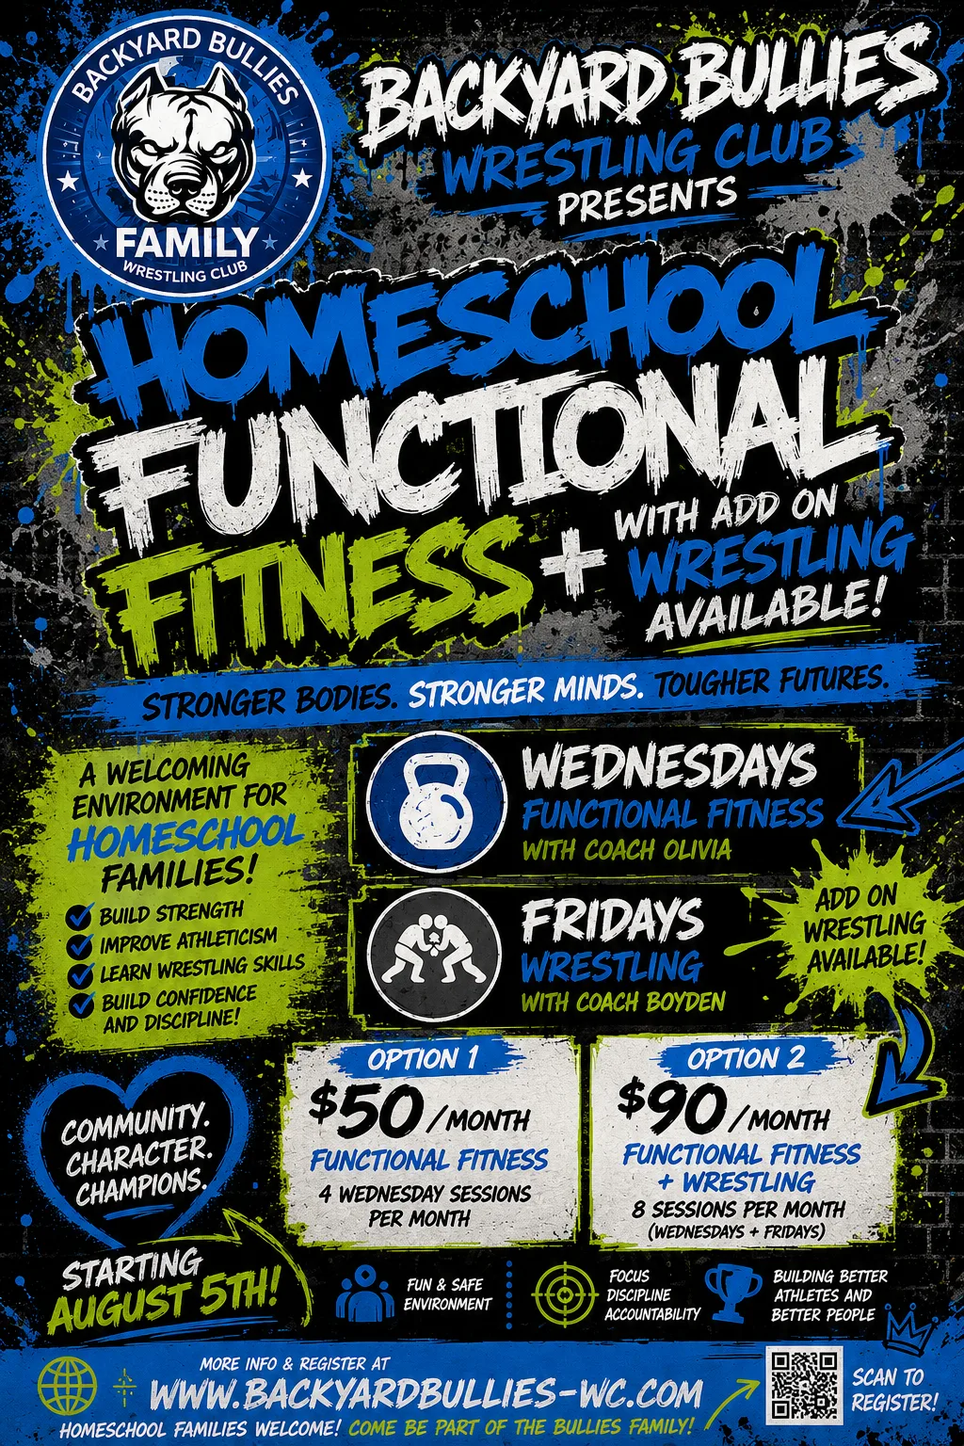
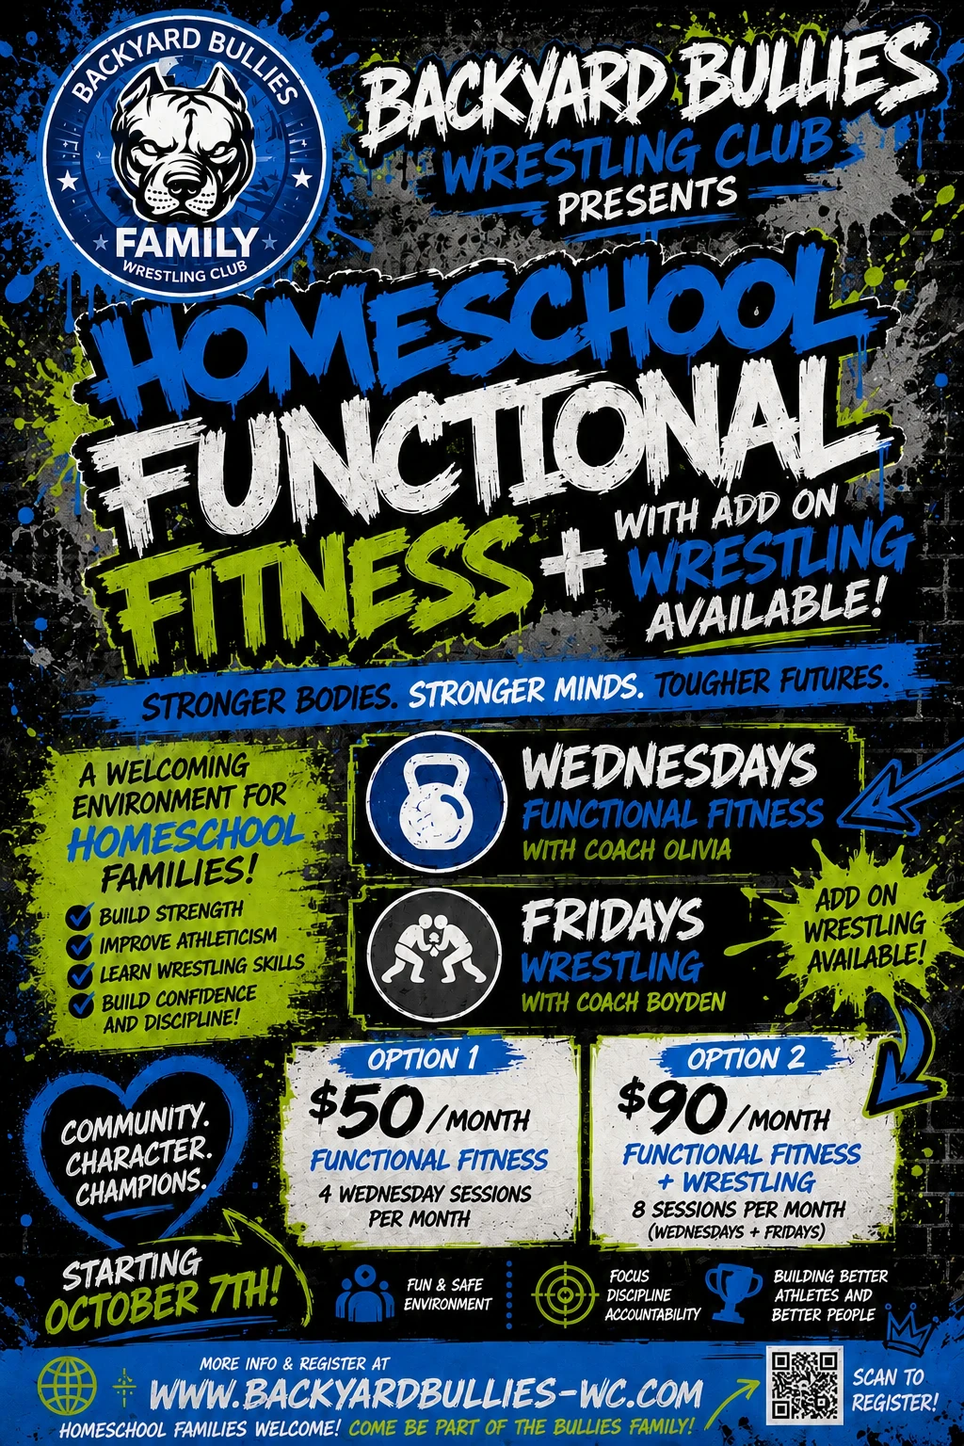
Refresh upcoming events

diff --git a/index.html b/index.html
@@ -214,62 +214,30 @@
   [
     {
       "@context": "https://schema.org",
-      "@type": "Event",
-      "name": "The Athletic Standard Sports Massage",
-      "description": "The Athletic Standard is offering reservation-only 20-minute sports massage sessions for $20. Limited time slots are available.",
-      "startDate": "2026-10-01T18:00:00-04:00",
-      "endDate": "2026-10-01T20:30:00-04:00",
-      "eventStatus": "https://schema.org/EventScheduled",
-      "image": "https://www.backyardbullies-wc.com/images/camps/athletic-standard-sports-massage.webp",
-      "url": "https://www.backyardbullies-wc.com/massage",
-      "offers": {
-        "@type": "Offer",
-        "url": "https://www.backyardbullies-wc.com/massage",
-        "price": 20,
-        "priceCurrency": "USD",
-        "availability": "https://schema.org/LimitedAvailability"
-      },
-      "organizer": {
-        "@type": "Organization",
-        "name": "The Athletic Standard",
-        "url": "https://theathleticstandard.com/"
-      }
-    },
-    {
-      "@context": "https://schema.org",
-      "@type": "Event",
-      "name": "Wrestling Clinic — All Ages, All Skill Levels",
-      "description": "A four-hour wrestling clinic for athletes of all ages and skill levels focused on technique, conditioning, mindset, and results at Backyard Bullies Wrestling Club in Augusta, GA.",
-      "startDate": "2026-10-03T08:00:00-04:00",
-      "endDate": "2026-10-03T12:00:00-04:00",
-      "eventAttendanceMode": "https://schema.org/OfflineEventAttendanceMode",
-      "eventStatus": "https://schema.org/EventScheduled",
-      "image": "https://www.backyardbullies-wc.com/images/camps/wrestling-clinic-october-2026.webp",
-      "url": "https://docs.google.com/forms/d/e/1FAIpQLSdaU0U6rkw-us_9woNuy4mtevYRp8IIStvXhummQ82HSzfSyg/viewform",
-      "offers": {
-        "@type": "Offer",
-        "url": "https://docs.google.com/forms/d/e/1FAIpQLSdaU0U6rkw-us_9woNuy4mtevYRp8IIStvXhummQ82HSzfSyg/viewform",
-        "price": 50,
-        "priceCurrency": "USD",
-        "availability": "https://schema.org/InStock"
-      },
-      "location": {
-        "@type": "Place",
-        "name": "Backyard Bullies Wrestling Club",
-        "address": {
-          "@type": "PostalAddress",
-          "streetAddress": "266 Bobby Jones Expressway, Unit 19",
-          "addressLocality": "Augusta",
-          "addressRegion": "GA",
-          "postalCode": "30907",
-          "addressCountry": "US"
-        }
-      },
-      "organizer": {
-        "@type": "Organization",
+      "@type": "Course",
+      "name": "Homeschool Functional Fitness + Wrestling",
+      "description": "Weekly functional fitness with optional wrestling for homeschool athletes in a positive, encouraging environment.",
+      "url": "https://www.backyardbullies-wc.com/homeschool-functional-fitness/",
+      "image": "https://www.backyardbullies-wc.com/images/camps/homeschool-functional-fitness.webp",
+      "provider": {
+        "@type": "SportsActivityLocation",
         "name": "Backyard Bullies Wrestling Club",
         "url": "https://www.backyardbullies-wc.com/"
-      }
+      },
+      "hasCourseInstance": {
+        "@type": "CourseInstance",
+        "courseMode": "onsite",
+        "startDate": "2026-10-07",
+        "location": {
+          "@type": "Place",
+          "name": "Backyard Bullies Wrestling Club",
+          "address": "266 Bobby Jones Expressway (Rear Entrance), Augusta, GA 30907"
+        }
+      },
+      "offers": [
+        {"@type": "Offer", "name": "Functional Fitness", "price": 50, "priceCurrency": "USD", "category": "monthly"},
+        {"@type": "Offer", "name": "Functional Fitness + Wrestling", "price": 90, "priceCurrency": "USD", "category": "monthly"}
+      ]
     },
     {
       "@context": "https://schema.org",
@@ -338,30 +306,26 @@
     },
     {
       "@context": "https://schema.org",
-      "@type": "Course",
-      "name": "Homeschool Functional Fitness + Wrestling",
-      "description": "Weekly functional fitness with optional wrestling for homeschool athletes in a positive, encouraging environment.",
-      "url": "https://www.backyardbullies-wc.com/homeschool-functional-fitness/",
-      "image": "https://www.backyardbullies-wc.com/images/camps/homeschool-functional-fitness.webp",
-      "provider": {
-        "@type": "SportsActivityLocation",
-        "name": "Backyard Bullies Wrestling Club",
-        "url": "https://www.backyardbullies-wc.com/"
+      "@type": "Event",
+      "name": "The Athletic Standard Sports Massage",
+      "description": "The Athletic Standard is offering reservation-only 20-minute sports massage sessions for $20. Limited time slots are available.",
+      "startDate": "2026-11-05T18:00:00-05:00",
+      "endDate": "2026-11-05T20:30:00-05:00",
+      "eventStatus": "https://schema.org/EventScheduled",
+      "image": "https://www.backyardbullies-wc.com/images/camps/athletic-standard-sports-massage.webp",
+      "url": "https://www.backyardbullies-wc.com/massage",
+      "offers": {
+        "@type": "Offer",
+        "url": "https://www.backyardbullies-wc.com/massage",
+        "price": 20,
+        "priceCurrency": "USD",
+        "availability": "https://schema.org/LimitedAvailability"
       },
-      "hasCourseInstance": {
-        "@type": "CourseInstance",
-        "courseMode": "onsite",
-        "startDate": "2026-08-05",
-        "location": {
-          "@type": "Place",
-          "name": "Backyard Bullies Wrestling Club",
-          "address": "266 Bobby Jones Expressway (Rear Entrance), Augusta, GA 30907"
-        }
-      },
-      "offers": [
-        {"@type": "Offer", "name": "Functional Fitness", "price": 50, "priceCurrency": "USD", "category": "monthly"},
-        {"@type": "Offer", "name": "Functional Fitness + Wrestling", "price": 90, "priceCurrency": "USD", "category": "monthly"}
-      ]
+      "organizer": {
+        "@type": "Organization",
+        "name": "The Athletic Standard",
+        "url": "https://theathleticstandard.com/"
+      }
     }
   ]
   </script>
@@ -661,50 +625,27 @@
         </div>
 
         <div class="grid md:grid-cols-2 lg:grid-cols-6 gap-6">
-          <!-- The Athletic Standard Sports Massage -->
-          <article class="bg-ink-card border border-ink-line rounded-xl p-6 flex flex-col lg:col-span-2">
+          <!-- Homeschool Functional Fitness + Wrestling -->
+          <article class="bg-ink-card border border-ink-line rounded-xl p-6 flex flex-col lg:col-span-3">
             <div class="min-h-20 mb-3">
-              <h3 class="font-head font-700 uppercase text-xl text-brand mb-1">The Athletic Standard Sports Massage</h3>
-              <p class="text-xs uppercase tracking-wide text-slate-400">Thursday, October 1, 2026 • 6:00–8:30 PM</p>
+              <h3 class="font-head font-700 uppercase text-xl text-brand mb-1">Homeschool Functional Fitness + Wrestling</h3>
+              <p class="text-xs uppercase tracking-wide text-slate-400">Starts October 7, 2026 • Continues weekly</p>
             </div>
-            <a href="images/camps/athletic-standard-sports-massage.webp" target="_blank" rel="noopener noreferrer" class="mb-5 h-80 w-60 self-center overflow-hidden rounded-lg bg-ink ring-1 ring-ink-line focus-visible:outline focus-visible:outline-2 focus-visible:outline-offset-4 focus-visible:outline-brand">
-              <img src="images/camps/athletic-standard-sports-massage.webp" alt="The Athletic Standard Sports Massage flyer for the first Thursday of every month" width="1003" height="1568" loading="lazy" class="h-full w-full object-fill" />
-              <span class="sr-only">View the full Athletic Standard Sports Massage flyer (opens in new window)</span>
+            <a href="images/camps/homeschool-functional-fitness.webp" target="_blank" rel="noopener noreferrer" class="mb-5 h-80 w-60 self-center overflow-hidden rounded-lg bg-ink ring-1 ring-ink-line focus-visible:outline focus-visible:outline-2 focus-visible:outline-offset-4 focus-visible:outline-brand">
+              <img src="images/camps/homeschool-functional-fitness.webp" alt="Homeschool Functional Fitness and Wrestling promotional flyer" width="1024" height="1536" loading="lazy" class="h-full w-full object-fill" />
+              <span class="sr-only">View the full Homeschool Functional Fitness and Wrestling flyer (opens in new window)</span>
             </a>
-            <p class="text-slate-200 text-sm mb-4">Recover, reset, and perform with a focused 20-minute sports massage session offered by The Athletic Standard.</p>
+            <p class="text-slate-200 text-sm mb-4">A welcoming weekly program where homeschool athletes build strength, athleticism, confidence, discipline, and wrestling skills in a fun, safe environment.</p>
             <ul class="list-disc pl-5 space-y-1.5 text-slate-200 text-sm mb-6">
-              <li>$20 per 20-minute session</li>
-              <li>Available from 6:00 to 8:30 PM</li>
-              <li>Limited slots — reservation required</li>
+              <li>Wednesday functional fitness with <a href="#coach-olivia" class="text-brand underline underline-offset-2 hover:text-white">Coach Olivia</a>: $50/month</li>
+              <li>Add Friday wrestling with <a href="#coach-justin" class="text-brand underline underline-offset-2 hover:text-white">Coach Boyden</a>: $90/month total</li>
+              <li>Four or eight sessions per month</li>
             </ul>
-            <a href="https://www.backyardbullies-wc.com/massage" target="_blank" rel="noopener noreferrer" class="mt-auto inline-flex items-center justify-center gap-2 bg-brand text-ink font-head font-700 uppercase text-sm px-5 py-3 rounded-md hover:bg-brand-dark transition-colors">
-              Reserve a Massage Session<span class="sr-only"> (opens in new window)</span>
-            </a>
-          </article>
-
-          <!-- Wrestling Clinic -->
-          <article class="bg-ink-card border border-ink-line rounded-xl p-6 flex flex-col lg:col-span-2">
-            <div class="min-h-20 mb-3">
-              <h3 class="font-head font-700 uppercase text-xl text-brand mb-1">Wrestling Clinic</h3>
-              <p class="text-xs uppercase tracking-wide text-slate-400">Saturday, October 3, 2026 • 8:00 AM–12:00 PM</p>
-            </div>
-            <a href="images/camps/wrestling-clinic-october-2026.webp" target="_blank" rel="noopener noreferrer" class="mb-5 h-80 w-60 self-center overflow-hidden rounded-lg bg-ink ring-1 ring-ink-line focus-visible:outline focus-visible:outline-2 focus-visible:outline-offset-4 focus-visible:outline-brand">
-              <img src="images/camps/wrestling-clinic-october-2026.webp" alt="Wrestling Clinic promotional flyer" width="1024" height="1536" loading="lazy" class="h-full w-full object-fill" />
-              <span class="sr-only">View the full Wrestling Clinic flyer (opens in new window)</span>
-            </a>
-            <p class="text-slate-200 text-sm mb-4">Elevate your game in a four-hour clinic open to wrestlers of every age and skill level.</p>
-            <ul class="list-disc pl-5 space-y-1.5 text-slate-200 text-sm mb-6">
-              <li>Improve technique and build conditioning</li>
-              <li>Develop mental toughness and competitive skills</li>
-              <li>$50 per person</li>
-            </ul>
-            <a href="https://docs.google.com/forms/d/e/1FAIpQLSdaU0U6rkw-us_9woNuy4mtevYRp8IIStvXhummQ82HSzfSyg/viewform" target="_blank" rel="noopener noreferrer" class="mt-auto inline-flex items-center justify-center gap-2 bg-brand text-ink font-head font-700 uppercase text-sm px-5 py-3 rounded-md hover:bg-brand-dark transition-colors">
-              Register for the Wrestling Clinic<span class="sr-only"> (opens in new window)</span>
-            </a>
+            <a href="homeschool-functional-fitness/" class="mt-auto inline-flex items-center justify-center gap-2 bg-brand text-ink font-head font-700 uppercase text-sm px-5 py-3 rounded-md hover:bg-brand-dark transition-colors">View program details &amp; register</a>
           </article>
 
           <!-- SONIC Spirit Night -->
-          <article class="bg-ink-card border border-ink-line rounded-xl p-6 flex flex-col lg:col-span-2">
+          <article class="bg-ink-card border border-ink-line rounded-xl p-6 flex flex-col lg:col-span-3">
             <div class="min-h-20 mb-3">
               <h3 class="font-head font-700 uppercase text-xl text-brand mb-1">SONIC Spirit Night</h3>
               <p class="text-xs uppercase tracking-wide text-slate-400">Thursday, October 15, 2026 • 5:00–9:00 PM</p>
@@ -725,7 +666,7 @@
           </article>
 
           <!-- Trunk or Treat -->
-          <article class="bg-ink-card border border-ink-line rounded-xl p-6 flex flex-col lg:col-span-2 lg:col-start-2">
+          <article class="bg-ink-card border border-ink-line rounded-xl p-6 flex flex-col lg:col-span-3">
             <div class="min-h-20 mb-3">
               <h3 class="font-head font-700 uppercase text-xl text-brand mb-1">Trunk or Treat</h3>
               <p class="text-xs uppercase tracking-wide text-slate-400">Friday, October 23, 2026 • 6:00–7:30 PM</p>
@@ -745,23 +686,25 @@
             </a>
           </article>
 
-          <!-- Homeschool Functional Fitness + Wrestling -->
-          <article class="bg-ink-card border border-ink-line rounded-xl p-6 flex flex-col lg:col-span-2">
+          <!-- The Athletic Standard Sports Massage -->
+          <article class="bg-ink-card border border-ink-line rounded-xl p-6 flex flex-col lg:col-span-3">
             <div class="min-h-20 mb-3">
-              <h3 class="font-head font-700 uppercase text-xl text-brand mb-1">Homeschool Functional Fitness + Wrestling</h3>
-              <p class="text-xs uppercase tracking-wide text-slate-400">Begins August 5, 2026 • Wednesdays + optional Fridays</p>
+              <h3 class="font-head font-700 uppercase text-xl text-brand mb-1">The Athletic Standard Sports Massage</h3>
+              <p class="text-xs uppercase tracking-wide text-slate-400">Thursday, November 5, 2026 • 6:00–8:30 PM</p>
             </div>
-            <a href="images/camps/homeschool-functional-fitness.webp" target="_blank" rel="noopener noreferrer" class="mb-5 h-80 w-60 self-center overflow-hidden rounded-lg bg-ink ring-1 ring-ink-line focus-visible:outline focus-visible:outline-2 focus-visible:outline-offset-4 focus-visible:outline-brand">
-              <img src="images/camps/homeschool-functional-fitness.webp" alt="Homeschool Functional Fitness and Wrestling promotional flyer" width="1024" height="1536" loading="lazy" class="h-full w-full object-fill" />
-              <span class="sr-only">View the full Homeschool Functional Fitness and Wrestling flyer (opens in new window)</span>
+            <a href="images/camps/athletic-standard-sports-massage.webp" target="_blank" rel="noopener noreferrer" class="mb-5 h-80 w-60 self-center overflow-hidden rounded-lg bg-ink ring-1 ring-ink-line focus-visible:outline focus-visible:outline-2 focus-visible:outline-offset-4 focus-visible:outline-brand">
+              <img src="images/camps/athletic-standard-sports-massage.webp" alt="The Athletic Standard Sports Massage flyer for the first Thursday of every month" width="1003" height="1568" loading="lazy" class="h-full w-full object-fill" />
+              <span class="sr-only">View the full Athletic Standard Sports Massage flyer (opens in new window)</span>
             </a>
-            <p class="text-slate-200 text-sm mb-4">A welcoming weekly program where homeschool athletes build strength, athleticism, confidence, discipline, and wrestling skills in a fun, safe environment.</p>
+            <p class="text-slate-200 text-sm mb-4">Recover, reset, and perform with a focused 20-minute sports massage session offered by The Athletic Standard.</p>
             <ul class="list-disc pl-5 space-y-1.5 text-slate-200 text-sm mb-6">
-              <li>Wednesday functional fitness with <a href="#coach-olivia" class="text-brand underline underline-offset-2 hover:text-white">Coach Olivia</a>: $50/month</li>
-              <li>Add Friday wrestling with <a href="#coach-justin" class="text-brand underline underline-offset-2 hover:text-white">Coach Boyden</a>: $90/month total</li>
-              <li>Four or eight sessions per month</li>
+              <li>$20 per 20-minute session</li>
+              <li>Available from 6:00 to 8:30 PM</li>
+              <li>Limited slots — reservation required</li>
             </ul>
-            <a href="homeschool-functional-fitness/" class="mt-auto inline-flex items-center justify-center gap-2 bg-brand text-ink font-head font-700 uppercase text-sm px-5 py-3 rounded-md hover:bg-brand-dark transition-colors">View program details &amp; register</a>
+            <a href="https://www.backyardbullies-wc.com/massage" target="_blank" rel="noopener noreferrer" class="mt-auto inline-flex items-center justify-center gap-2 bg-brand text-ink font-head font-700 uppercase text-sm px-5 py-3 rounded-md hover:bg-brand-dark transition-colors">
+              Reserve a Massage Session<span class="sr-only"> (opens in new window)</span>
+            </a>
           </article>
         </div>
       </div>

diff --git a/homeschool-functional-fitness/index.html b/homeschool-functional-fitness/index.html
@@ -11,7 +11,7 @@
     gtag('config', 'G-JMK1YQ9K6P');
   </script>
   <title>Homeschool Functional Fitness + Wrestling | Backyard Bullies</title>
-  <meta name="description" content="Homeschool functional fitness and optional wrestling in Augusta, GA. Wednesday fitness and Friday wrestling sessions begin August 5, 2026." />
+  <meta name="description" content="Homeschool functional fitness and optional wrestling in Augusta, GA, starting October 7, 2026, and continuing weekly for ages 7–14." />
   <meta name="theme-color" content="#0E1116" />
   <link rel="canonical" href="https://www.backyardbullies-wc.com/homeschool-functional-fitness/" />
   <link rel="icon" href="../images/favicon.ico" sizes="any" />
@@ -27,7 +27,7 @@
   <meta property="og:url" content="https://www.backyardbullies-wc.com/homeschool-functional-fitness/" />
   <meta name="twitter:card" content="summary_large_image" />
   <meta name="twitter:title" content="Homeschool Functional Fitness + Wrestling" />
-  <meta name="twitter:description" content="Wednesday fitness and Friday wrestling for homeschool families, beginning August 5, 2026." />
+  <meta name="twitter:description" content="Wednesday fitness and optional Friday wrestling for homeschool athletes ages 7–14, starting October 7 and continuing weekly." />
   <meta name="twitter:image" content="https://www.backyardbullies-wc.com/images/camps/homeschool-functional-fitness.webp" />
   <link rel="preload" as="image" href="../images/camps/homeschool-functional-fitness.webp" fetchpriority="high" />
   <link rel="preconnect" href="https://fonts.googleapis.com" />
@@ -59,7 +59,7 @@
     "hasCourseInstance": {
       "@type": "CourseInstance",
       "courseMode": "onsite",
-      "startDate": "2026-08-05",
+      "startDate": "2026-10-07",
       "location": {
         "@type": "Place",
         "name": "Backyard Bullies Wrestling Club",
@@ -148,7 +148,7 @@
     <section class="paint-zone paint-blue-left relative overflow-hidden border-b border-ink-line bg-gradient-to-br from-brand/15 via-ink to-ink pt-16">
       <div class="relative mx-auto grid max-w-6xl gap-10 px-4 py-12 sm:px-6 sm:py-16 lg:grid-cols-[minmax(0,1fr)_24rem] lg:items-center lg:gap-16 lg:py-20">
         <div>
-          <p class="brush-label mb-5 font-head text-sm font-700 uppercase tracking-[0.15em]">Begins Wednesday, August 5, 2026</p>
+          <p class="brush-label mb-5 font-head text-sm font-700 uppercase tracking-[0.15em]">Starts Wednesday, October 7 · Continues weekly</p>
           <h1 class="max-w-3xl font-display text-5xl uppercase leading-[0.95] text-white sm:text-6xl lg:text-7xl">Homeschool <span class="brush-heading">functional fitness</span> <span class="lime-text">+ wrestling</span></h1>
           <p class="mt-6 max-w-2xl text-lg leading-8 text-slate-300 sm:text-xl">Help your homeschool athlete become stronger, healthier, more confident, and more disciplined in a positive, encouraging environment.</p>
           <div class="mt-8 flex flex-col gap-3 sm:flex-row">
@@ -159,21 +159,6 @@
         <a href="../images/camps/homeschool-functional-fitness.webp" target="_blank" rel="noopener noreferrer" class="mx-auto block overflow-hidden rounded-xl ring-1 ring-brand/50 shadow-2xl shadow-black/50 focus-visible:outline focus-visible:outline-2 focus-visible:outline-offset-4 focus-visible:outline-brand">
           <img src="../images/camps/homeschool-functional-fitness.webp" alt="Homeschool Functional Fitness and Wrestling flyer with program schedule, benefits, and monthly pricing" width="1024" height="1536" fetchpriority="high" />
           <span class="sr-only">View the full program flyer (opens in new window)</span>
-        </a>
-      </div>
-    </section>
-
-    <section aria-labelledby="open-house-title" class="border-b border-ink-line bg-ink-soft py-12 sm:py-16">
-      <div class="mx-auto grid max-w-6xl gap-8 px-4 sm:px-6 md:grid-cols-[minmax(0,1fr)_15rem] md:items-center">
-        <div>
-          <p class="font-head text-sm font-700 uppercase tracking-[0.15em] text-brand">Free open house</p>
-          <h2 id="open-house-title" class="mt-3 font-display text-4xl uppercase sm:text-5xl">Try your first class of the season</h2>
-          <p class="mt-4 max-w-3xl text-lg leading-8 text-slate-300">Join Coach Olivia Kendrick on Wednesday, September 30, 2026, from 12:00 to 1:00 PM. Homeschool families can meet the coach, see the program in action, and try a functional fitness class for free.</p>
-          <a href="https://docs.google.com/forms/d/e/1FAIpQLSdel51qOt-3xfKf8TrD6v1uXrTMtMFOcj_whtstVF1-8dlD0Q/viewform" target="_blank" rel="noopener noreferrer" class="mt-6 inline-flex min-h-12 items-center justify-center rounded-md bg-brand px-6 py-3 font-head font-700 uppercase tracking-wide text-ink hover:bg-brand-dark">Register for the free open house<span class="sr-only"> (opens in new window)</span></a>
-        </div>
-        <a href="../images/camps/homeschool-functional-fitness-open-house.webp" target="_blank" rel="noopener noreferrer" class="mx-auto block overflow-hidden rounded-xl ring-1 ring-brand/50 shadow-xl shadow-black/40 focus-visible:outline focus-visible:outline-2 focus-visible:outline-offset-4 focus-visible:outline-brand">
-          <img src="../images/camps/homeschool-functional-fitness-open-house.webp" alt="Homeschool Functional Fitness Open House flyer" width="1024" height="1536" loading="lazy" />
-          <span class="sr-only">View the full open house flyer (opens in new window)</span>
         </a>
       </div>
     </section>
@@ -209,7 +194,7 @@
     <section aria-labelledby="details-title" class="bg-ink-soft py-16 sm:py-20">
       <div class="mx-auto grid max-w-6xl gap-8 px-4 sm:px-6 lg:grid-cols-2 lg:items-center">
         <div><div class="section-rule mb-5"></div><h2 id="details-title" class="font-display text-4xl uppercase sm:text-5xl">At the Backyard Bullies gym</h2><p class="mt-5 text-lg leading-8 text-slate-300">266 Bobby Jones Expressway<br />Rear Entrance<br />Augusta, GA 30907</p><a href="https://maps.google.com/?q=266+Bobby+Jones+Expressway+Augusta+GA+30907" target="_blank" rel="noopener noreferrer" class="mt-6 inline-flex min-h-11 items-center font-head font-700 uppercase tracking-wide text-brand underline decoration-2 underline-offset-4 hover:text-white">Get directions<span aria-hidden="true" class="ml-2">↗</span><span class="sr-only"> (opens in new window)</span></a></div>
-        <div class="rounded-2xl border border-brand/40 bg-gradient-to-br from-brand/10 to-ink-card p-6 sm:p-8"><h2 class="font-head text-2xl font-700 uppercase text-white">Program details</h2><dl class="mt-6 divide-y divide-ink-line"><div class="grid grid-cols-[7rem_1fr] gap-4 py-4 first:pt-0"><dt class="font-head font-700 uppercase text-slate-400">Starts</dt><dd>August 5, 2026</dd></div><div class="grid grid-cols-[7rem_1fr] gap-4 py-4"><dt class="font-head font-700 uppercase text-slate-400">Wednesday</dt><dd>Functional fitness</dd></div><div class="grid grid-cols-[7rem_1fr] gap-4 py-4"><dt class="font-head font-700 uppercase text-slate-400">Friday</dt><dd>Optional wrestling add-on</dd></div><div class="grid grid-cols-[7rem_1fr] gap-4 py-4 last:pb-0"><dt class="font-head font-700 uppercase text-slate-400">Families</dt><dd>Homeschool athletes welcome</dd></div></dl></div>
+        <div class="rounded-2xl border border-brand/40 bg-gradient-to-br from-brand/10 to-ink-card p-6 sm:p-8"><h2 class="font-head text-2xl font-700 uppercase text-white">Program details</h2><dl class="mt-6 divide-y divide-ink-line"><div class="grid grid-cols-[7rem_1fr] gap-4 py-4 first:pt-0"><dt class="font-head font-700 uppercase text-slate-400">Starts</dt><dd>October 7, 2026 · Continues weekly</dd></div><div class="grid grid-cols-[7rem_1fr] gap-4 py-4"><dt class="font-head font-700 uppercase text-slate-400">Ages</dt><dd>7–14</dd></div><div class="grid grid-cols-[7rem_1fr] gap-4 py-4"><dt class="font-head font-700 uppercase text-slate-400">Wednesday</dt><dd>Functional fitness</dd></div><div class="grid grid-cols-[7rem_1fr] gap-4 py-4"><dt class="font-head font-700 uppercase text-slate-400">Friday</dt><dd>Optional wrestling add-on</dd></div><div class="grid grid-cols-[7rem_1fr] gap-4 py-4 last:pb-0"><dt class="font-head font-700 uppercase text-slate-400">Families</dt><dd>Homeschool athletes welcome</dd></div></dl></div>
       </div>
     </section>
 
